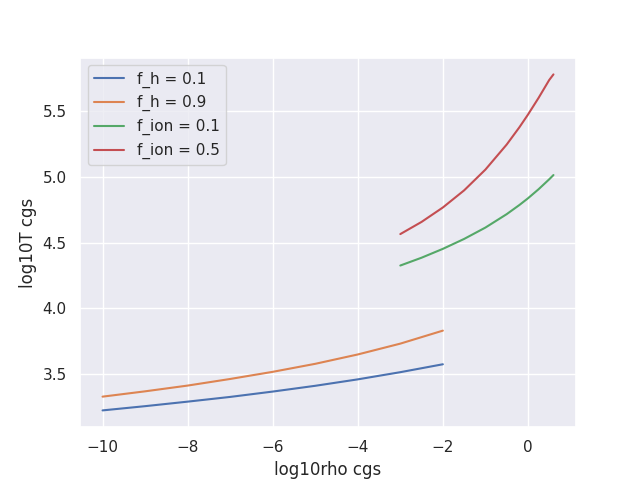
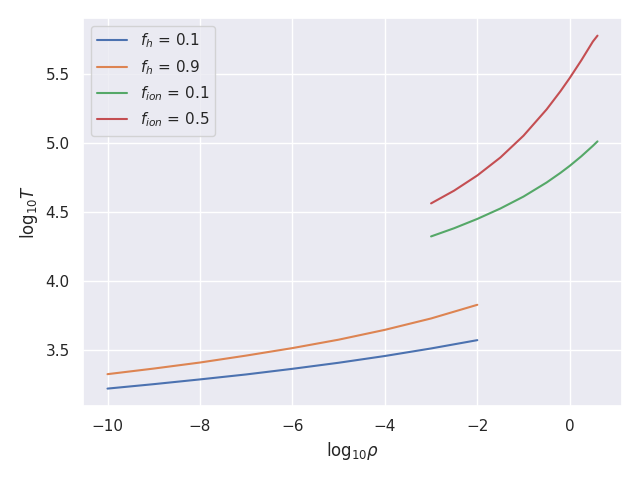
add : latexを使って描画

diff --git a/plot.py b/plot.py
@@ -48,7 +48,7 @@ def main():
     plt.plot(
         np.log10(r_h[4][: GRID - 1]),
         np.log10((rho[4][: GRID - 1])),
-        label="{:.5f} * 10^13s".format(t[int(4)] / 10 ** 13),
+        label="{:.6f}".format(t[int(4)] / 10 ** 12),
     )
     while i < idx:
         if np.abs(np.max(np.log10(rho[i])) - cur_rho) >= 2 or i - prev >= max(
@@ -57,15 +57,18 @@ def main():
             plt.plot(
                 np.log10(r_h[i][: GRID - 1]),
                 np.log10((rho[i][: GRID - 1])),
-                label="{:.5f} * 10^13s".format(t[int(i)] / 10 ** 13),
+                label="{:.6f}".format(t[int(i)] / 10 ** 12),
             )
             cur_rho = np.max(np.floor(np.log10(rho[i])))
+            if cur_rho > -4:
+                break
             prev = i
         i += 1
 
-    plt.xlabel("log10r")
-    plt.ylabel("log10rho")
+    plt.xlabel(r"$\log_{10}r$")
+    plt.ylabel(r"$\log_{10}\rho$")
     plt.legend()
+    plt.tight_layout()
     os.makedirs("results/" + config["plot_tag"], exist_ok=True)
     plt.savefig("results/" + config["plot_tag"] + "/rho_r.png")
 
@@ -73,28 +76,24 @@ def main():
     cur_rho = np.max(np.floor(np.log10(rho[0])))
     i = 10
     prev = i
-    plt.plot(
-        np.log10(r_h[4]),
-        v[4][:GRID],
-        label="{:.5f} * 10^13s".format(t[int(4)] / 10 ** 13),
-    )
-
     while i < idx:
-        if np.abs(np.max(np.log10(rho[i])) - cur_rho) >= 2 or i - prev >= max(
-            700, prev
-        ):
+        if np.abs(np.max(np.log10(rho[i])) - cur_rho) >= 2:
             plt.plot(
                 np.log10(r_h[i]),
                 np.abs(v[i][:GRID]),
-                label="{:.5f} * 10^13s".format(t[int(i)] / 10 ** 13),
+                label="{:.6f}".format(t[int(i)] / 10 ** 12),
             )
             cur_rho = np.max(np.floor(np.log10(rho[i])))
+            print(cur_rho)
+            if cur_rho > -3.5:
+                break
             prev = i
         i += 1
 
-    plt.xlabel("log10r")
-    plt.ylabel("v")
+    plt.xlabel(r"$\log_{10}r$")
+    plt.ylabel(r"$v$")
     plt.legend()
+    plt.tight_layout()
     os.makedirs("results/" + config["plot_tag"], exist_ok=True)
     plt.savefig("results/" + config["plot_tag"] + "/v_r.png")
 
@@ -105,7 +104,7 @@ def main():
     plt.plot(
         np.log10(r_h[4][: GRID - 1]),
         np.log10((tmp[4][: GRID - 1])),
-        label="{:.5f} * 10^13s".format(t[int(4)] / 10 ** 13),
+        label="{:.5f}".format(t[int(4)] / 10 ** 12),
     )
 
     while i < idx:
@@ -115,16 +114,18 @@ def main():
             plt.plot(
                 np.log10(r_h[i][: GRID - 1]),
                 np.log10((tmp[i][: GRID - 1])),
-                label="{:.5f} * 10^13s".format(t[int(i)] / 10 ** 13),
+                label="{:.5f} ".format(t[int(i)] / 10 ** 12),
             )
             cur_tmp = np.max(np.log10(tmp[i]))
             print(cur_tmp)
             prev = i
 
         i += 1
-    plt.xlabel("log10 r")
-    plt.ylabel("log10 T")
+    plt.xlabel(r"$\log_{10}r$")
+    plt.ylabel(r"$\log_{10}T$")
+
     plt.legend()
+    plt.tight_layout()
     os.makedirs("results/" + config["plot_tag"], exist_ok=True)
     plt.savefig("results/" + config["plot_tag"] + "/t_r.png")
 

diff --git a/plot_ion.py b/plot_ion.py
@@ -64,9 +64,7 @@ def main():
     while i < idx:
         if np.abs(np.max(fh[i]) - cur_fh) >= 0.2 or i - prev >= 10000:
             if not np.all(np.abs(fh[prev] - fh[i]) < 0.000001):
-                label = "{:.5f} * 10^13s,core={:.5f}K".format(
-                    t[i] / 10 ** 13, tmp[i][10]
-                )
+                label = r"$T_{core}$:" + "{:.1f}K".format(tmp[i][10])
                 ax1.plot(
                     np.log10(r_h[i]),
                     fh[i],
@@ -91,50 +89,43 @@ def main():
                 cur_fh = np.max(fh[i])
             prev = i
         i += 1
+    label = r"$T_{core}$:" + "{:.1f}K".format(tmp[i - 10][10])
+
     ax1.plot(
         np.log10(r_h[i - 10]),
         fh[i - 10],
-        label="{:.5f} * 10^13s,core={:.5f}K".format(
-            t[i - 10] / 10 ** 13, tmp[i - 10][10]
-        ),
+        label=label,
     )
     ax2.plot(
         np.log10(r_h[i - 10]),
         fht[i - 10],
-        label="{:.5f} * 10^13s,core={:.5f}K".format(
-            t[i - 10] / 10 ** 13, tmp[i - 10][10]
-        ),
+        label=label,
     )
     ax3.plot(
         np.log10(r_h[i - 10]),
         fion[i - 10],
-        label="{:.5f} * 10^13s,core={:.5f}K".format(
-            t[i - 10] / 10 ** 13, tmp[i - 10][10]
-        ),
+        label=label,
     )
-
     ax4.plot(
         np.log10(r_h[i - 10]),
         np.log10(tmp[i - 10]),
-        label="{:.5f} * 10^13s,core={:.5f}K".format(
-            t[i - 10] / 10 ** 13, tmp[i - 10][10]
-        ),
+        label=label,
     )
 
-    ax1.set_ylim(-0.1, 1.2)
-    ax1.set_xlabel("log10r")
-    ax1.set_ylabel("H")
+    ax1.set_ylim(-0.1, 1.1)
+    ax1.set_xlabel(r"$\log_{10}r$")
+    ax1.set_ylabel(r"$f_H$")
 
-    ax2.set_ylim(-0.1, 1.2)
-    ax2.set_xlabel("log10r")
-    ax2.set_ylabel("H2")
+    ax2.set_ylim(-0.1, 1.1)
+    ax2.set_xlabel(r"$\log_{10}r$")
+    ax2.set_ylabel(r"$f_{H^2}$")
 
-    ax3.set_ylim(-0.1, 1.2)
-    ax3.set_xlabel("log10r")
-    ax3.set_ylabel("H+")
+    ax3.set_ylim(-0.1, 1.1)
+    ax3.set_xlabel(r"$\log_{10}r$")
+    ax3.set_ylabel(r"$f_{H^+}$")
 
-    ax4.set_xlabel("log10r")
-    ax4.set_ylabel("TMP")
+    ax4.set_xlabel(r"$\log_{10}r$")
+    ax4.set_ylabel(r"$\log_{10}T$")
     plt.legend()
     fig.tight_layout()
     os.makedirs("results/" + config["plot_tag"], exist_ok=True)

diff --git a/plot_core.py b/plot_core.py
@@ -54,15 +54,16 @@ def main():
         i += 1
     figure = plt.figure()
     plt.plot(rho_ls, tmp_ls)
-    plt.xlabel("log10rho cgs")
-    plt.ylabel("log10T cgs")
+    plt.xlabel(r"$\log_{10}$" + r"$\rho$")
+    plt.ylabel(r"$\log_{10}$" + "T")
     rho_fh, tmp_fh_low, tmp_fh_high = search_fh()
     rho_fion, tmp_fion_low, tmp_fion_high = search_fion()
-    plt.plot(rho_fh, tmp_fh_low, linestyle="dashed", label="f_h = 0.1")
-    plt.plot(rho_fh, tmp_fh_high, linestyle="dashed", label="f_h = 0.9")
-    plt.plot(rho_fion, tmp_fion_low, linestyle="dotted", label="f_ion = 0.1")
-    plt.plot(rho_fion, tmp_fion_high, linestyle="dotted", label="f_ion = 0.5")
+    plt.plot(rho_fh, tmp_fh_low, linestyle="dashed", label=r"$f_H$ = 0.1")
+    plt.plot(rho_fh, tmp_fh_high, linestyle="dashed", label=r"$f_H$ = 0.9")
+    plt.plot(rho_fion, tmp_fion_low, linestyle="dotted", label=r"$f_{H+}$= 0.1")
+    plt.plot(rho_fion, tmp_fion_high, linestyle="dotted", label=r"$f_{H+}$= 0.5")
     plt.legend()
+    plt.tight_layout()
     os.makedirs("results/" + config["plot_tag"], exist_ok=True)
     plt.savefig("results/" + config["plot_tag"] + "/core.png")
 

diff --git a/plot_fh_2d.py b/plot_fh_2d.py
@@ -80,13 +80,14 @@ def main():
     rho_fh, tmp_fh_low, tmp_fh_high = search_fh()
     rho_fion, tmp_fion_low, tmp_fion_high = search_fion()
     figure = plt.figure()
-    plt.plot(rho_fh, tmp_fh_low, label="f_h = 0.1")
-    plt.plot(rho_fh, tmp_fh_high, label="f_h = 0.9")
-    plt.plot(rho_fion, tmp_fion_low, label="f_ion = 0.1")
-    plt.plot(rho_fion, tmp_fion_high, label="f_ion = 0.5")
-    plt.xlabel("log10rho cgs")
-    plt.ylabel("log10T cgs")
+    plt.plot(rho_fh, tmp_fh_low, label=r"$f_h$ = 0.1")
+    plt.plot(rho_fh, tmp_fh_high, label=r"$f_h$ = 0.9")
+    plt.plot(rho_fion, tmp_fion_low, label=r"$f_{ion}$ = 0.1")
+    plt.plot(rho_fion, tmp_fion_high, label=r"$f_{ion}$ = 0.5")
+    plt.xlabel(r"$\log_{10}\rho$")
+    plt.ylabel(r"$\log_{10}T$")
     plt.legend()
+    plt.tight_layout()
     plt.savefig("fh_2d.png")
 
 

diff --git a/test_fh.py b/test_fh.py
@@ -26,8 +26,8 @@ for item in tmp_ls:
 
 plt.plot()
 
-plt.plot(tmp_ls, fh_ls, label="H")
-plt.plot(tmp_ls, fht_ls, label="H2")
-plt.plot(tmp_ls, fion_ls, label="h+")
+plt.plot(tmp_ls, fh_ls, label=r"$f_H$")
+plt.plot(tmp_ls, fht_ls, label=r"$f_{H^2}$")
+plt.plot(tmp_ls, fion_ls, label=r"$f_{H+}$")
 plt.legend()
 plt.savefig("fh.png")
